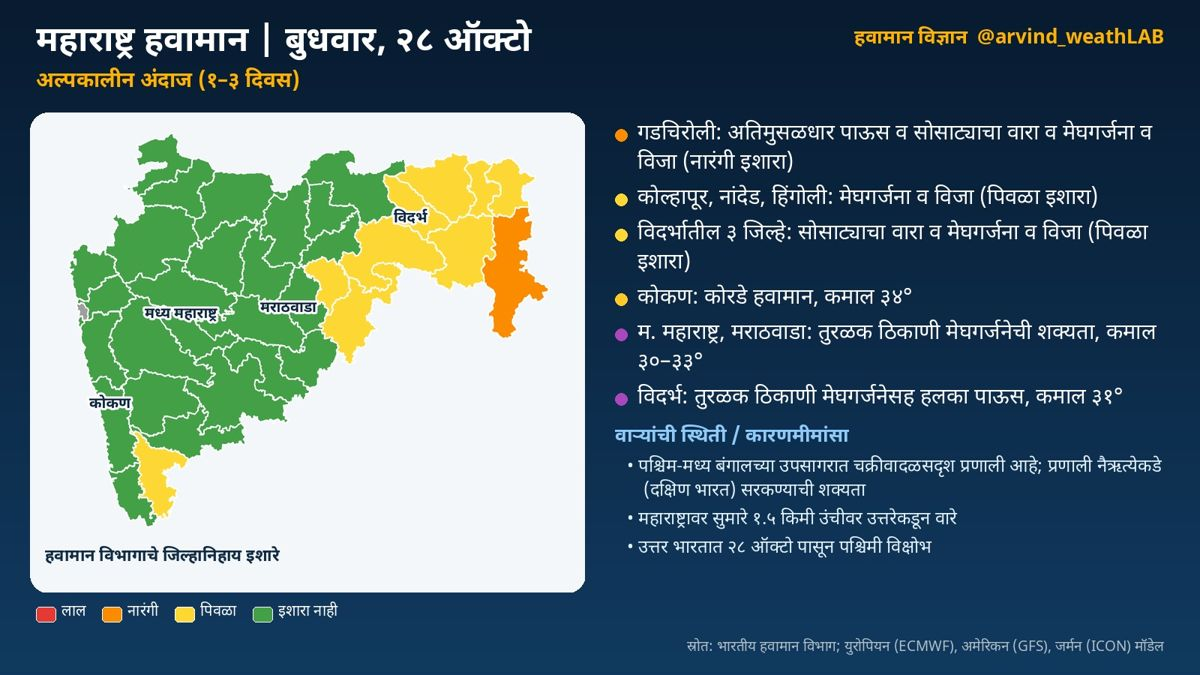
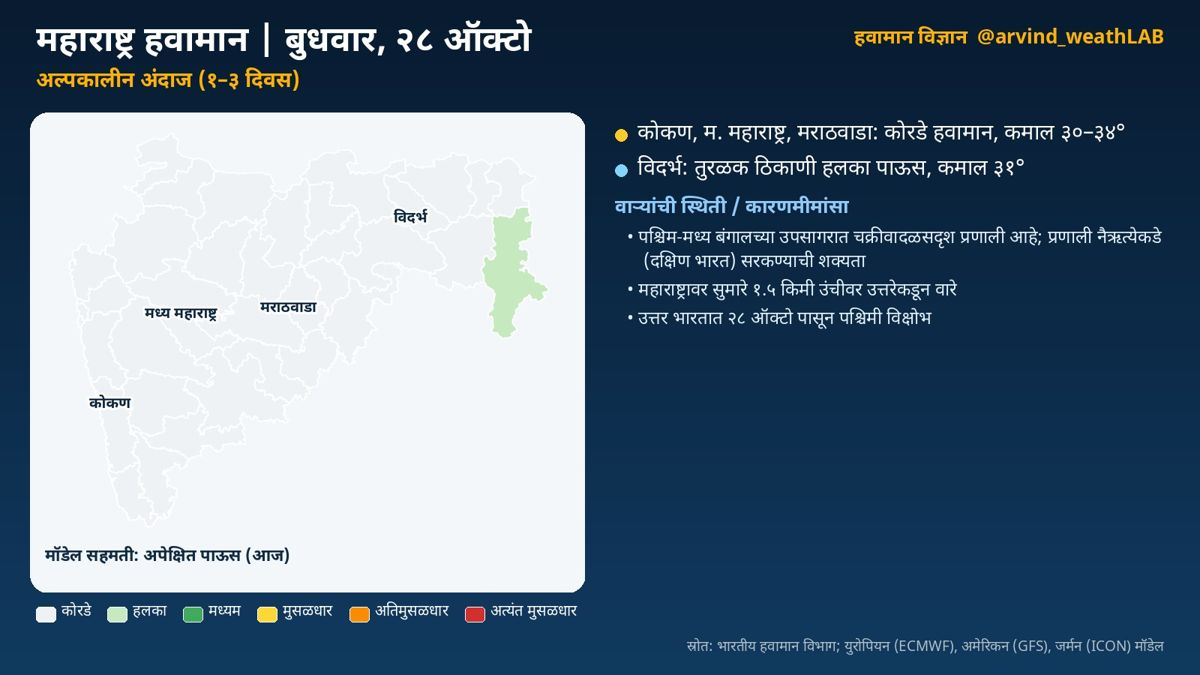
Alert 2026-10-28 (hawaman-vidnyan)

diff --git a/docs/alerts/2026-10-28-hawaman/index.html b/docs/alerts/2026-10-28-hawaman/index.html
@@ -12,11 +12,11 @@
     })();
   </script>
   <title data-mr="महाराष्ट्र हवामान | बुधवार, २८ ऑक्टो — हवामान इशारा">महाराष्ट्र हवामान | बुधवार, २८ ऑक्टो — Weather alert</title>
-  <meta name="description" content="Orange alert: महाराष्ट्र हवामान | बुधवार, २८ ऑक्टो (28 October 2026)">
+  <meta name="description" content="Information analysis: महाराष्ट्र हवामान | बुधवार, २८ ऑक्टो (28 October 2026)">
   <link rel="preconnect" href="https://fonts.googleapis.com">
   <link rel="preconnect" href="https://fonts.gstatic.com" crossorigin>
   <link href="https://fonts.googleapis.com/css2?family=Mukta:wght@400;500;600;700&family=Noto+Serif+Devanagari:wght@600;700&display=swap" rel="stylesheet">
-  <link rel="stylesheet" href="../../static/css/style.css?v=7f417a43">
+  <link rel="stylesheet" href="../../static/css/style.css?v=53f47638">
 </head>
 <body>
   <header class="site-header">
@@ -45,12 +45,12 @@
   <main class="wrap main">
 <article class="article">
   <p class="muted"><a href="../../alerts/index.html"><span class="l-en">← All alerts</span><span class="l-mr" lang="mr">← सर्व इशारे</span></a></p>
-  <div class="alert-banner level-orange">
-    <span class="badge badge-orange"><span class="l-en">Orange alert · Be prepared</span><span class="l-mr" lang="mr">नारंगी इशारा · तयार राहा</span></span>
+  <div class="alert-banner level-info">
+    <span class="badge badge-info"><span class="l-en">Information · analysis</span><span class="l-mr" lang="mr">माहितीपर विश्लेषण</span></span>
     <h1>महाराष्ट्र हवामान | बुधवार, २८ ऑक्टो</h1>
     <dl class="alert-facts">
       <div><dt><span class="l-en">Date</span><span class="l-mr" lang="mr">दिनांक</span></dt><dd><time datetime="2026-10-28"><span class="l-en">Wednesday, 28 October 2026</span><span class="l-mr" lang="mr">बुधवार, २८ ऑक्टोबर २०२६</span></time></dd></div>
-<div><dt><span class="l-en">Valid</span><span class="l-mr" lang="mr">वैधता</span></dt><dd><span class="l-en">28 October 2026 — Short-range analysis (1–3 days)</span><span class="l-mr" lang="mr">२८ ऑक्टोबर २०२६ — अल्पकालीन विश्लेषण (१–३ दिवस)</span></dd></div><div><dt><span class="l-en">Districts / regions</span><span class="l-mr" lang="mr">जिल्हे/भाग</span></dt><dd><span class="l-en">Kolhapur</span><span class="l-mr" lang="mr">कोल्हापूर</span>, <span class="l-en">Nanded</span><span class="l-mr" lang="mr">नांदेड</span>, <span class="l-en">Yavatmal</span><span class="l-mr" lang="mr">यवतमाळ</span>, <span class="l-en">Gondia</span><span class="l-mr" lang="mr">गोंदिया</span>, <span class="l-en">Nagpur</span><span class="l-mr" lang="mr">नागपूर</span>, <span class="l-en">Hingoli</span><span class="l-mr" lang="mr">हिंगोली</span>, <span class="l-en">Bhandara</span><span class="l-mr" lang="mr">भंडारा</span>, <span class="l-en">Chandrapur</span><span class="l-mr" lang="mr">चंद्रपूर</span>, <span class="l-en">Wardha</span><span class="l-mr" lang="mr">वर्धा</span>, <span class="l-en">Gadchiroli</span><span class="l-mr" lang="mr">गडचिरोली</span></dd></div><div><dt><span class="l-en">Hazards</span><span class="l-mr" lang="mr">धोके</span></dt><dd><span class="l-en">Heavy rain</span><span class="l-mr" lang="mr">मुसळधार पाऊस</span>, <span class="l-en">Thunderstorm &amp; lightning</span><span class="l-mr" lang="mr">मेघगर्जना व विजा</span>, <span class="l-en">Strong surface winds</span><span class="l-mr" lang="mr">सोसाट्याचा वारा</span>, <span class="l-en">Very heavy rain</span><span class="l-mr" lang="mr">अतिमुसळधार पाऊस</span></dd></div>    </dl>
+<div><dt><span class="l-en">Valid</span><span class="l-mr" lang="mr">वैधता</span></dt><dd><span class="l-en">28 October 2026 — Short-range analysis (1–3 days)</span><span class="l-mr" lang="mr">२८ ऑक्टोबर २०२६ — अल्पकालीन विश्लेषण (१–३ दिवस)</span></dd></div><div><dt><span class="l-en">Districts / regions</span><span class="l-mr" lang="mr">जिल्हे/भाग</span></dt><dd><span class="l-en">Konkan</span><span class="l-mr" lang="mr">कोकण</span>, <span class="l-en">Madhya Maharashtra</span><span class="l-mr" lang="mr">मध्य महाराष्ट्र</span>, <span class="l-en">Marathwada</span><span class="l-mr" lang="mr">मराठवाडा</span>, <span class="l-en">Vidarbha</span><span class="l-mr" lang="mr">विदर्भ</span></dd></div>    </dl>
   </div>
   <section class="reel">
     <h2><span class="l-en">Today&#39;s visual analysis</span><span class="l-mr" lang="mr">आजचे दृश्य विश्लेषण</span> <span class="muted"><span class="l-en">(reel slides)</span><span class="l-mr" lang="mr">(रील स्लाइड्स)</span></span></h2>
@@ -100,9 +100,10 @@
     </div>
 </details>  </section>
   <p class="lang-note l-en">This page is written in Marathi.</p><div class="prose" lang="mr"><p><strong>अल्पकालीन विश्लेषण (१–३ दिवस)</strong> · वैयक्तिक विश्लेषणावर आधारित</p>
-<p>🟠 गडचिरोली: अतिमुसळधार पाऊस व सोसाट्याचा वारा व मेघगर्जना व विजा<br />
-🟡 कोल्हापूर, नांदेड, हिंगोली: मेघगर्जना व विजा<br />
-🟡 विदर्भातील ३ जिल्हे: सोसाट्याचा वारा व मेघगर्जना व विजा<br />
+<p>☀ कोकण: कोरडे हवामान<br />
+☀ म. महाराष्ट्र: कोरडे हवामान<br />
+☀ मराठवाडा: कोरडे हवामान<br />
+🌦 विदर्भ: तुरळक ठिकाणी हलका पाऊस<br />
 🌀 पश्चिम-मध्य बंगालच्या उपसागरात चक्रीवादळसदृश प्रणाली आहे</p>
 <p><img src="../../static/images/alerts/2026-10-28/1_card.jpg" alt="अल्पकालीन विश्लेषण (१–३ दिवस)" /></p>
 <h3>हवामानामागचे कारण</h3>
@@ -112,23 +113,16 @@
 • पूर्व-मध्य अरबी समुद्रात कमी दाबाचे क्षेत्र आहे<br />
 • महाराष्ट्रावर सुमारे १.५ किमी उंचीवर उत्तरेकडून वारे</p>
 <p>• उत्तर भारतात २८ ऑक्टो पासून पश्चिमी विक्षोभ; तो पुढे सरकल्यानंतर उत्तरेकडील थंड वाऱ्यांमुळे राज्यात किमान तापमानात घट होऊ शकते</p>
-<p>🏙 आज शहरांचे कमाल/किमान तापमान (हवामान विभाग):<br />
-मुंबई ३५/२५, रत्नागिरी ३५/२४, पुणे ३४/१५, नाशिक ३४/१८, कोल्हापूर ३३/२१, छ. ३४/२०, नागपूर ३०/१९</p>
-<p>📌 निरीक्षणे:<br />
-🌡 काल सर्वाधिक: रत्नागिरी ३७.२°<br />
-❄ नीचांकी: नाशिक १४.३°<br />
-🛰 उपग्रह: मराठवाडा, विदर्भ भागावर उंच गडगडाटी ढग (कोकण १%, मध्य महाराष्ट्र १०%, मराठवाडा ४७%, विदर्भ ८०% ढगाच्छादन)</p>
 <p>ℹ स्रोत: भारतीय हवामान विभाग; युरोपियन (ECMWF), अमेरिकन (GFS), जर्मन (ICON) मॉडेल<br />
 ⚠ हे मॉडेल-आधारित विश्लेषण आहे. अधिकृत इशाऱ्यांसाठी भारतीय हवामान विभाग (IMD) व स्थानिक प्रशासनाच्या सूचना पाहा.</p>
 <p><img src="../../static/images/alerts/2026-10-28/2_circulation_chart.jpg" alt="वाऱ्यांची स्थिती व दाब प्रणाली" /></p>
-<p><img src="../../static/images/alerts/2026-10-28/3_satellite_insat.jpg" alt="वाऱ्यांची स्थिती व दाब प्रणाली" /></p>
 <h2>सविस्तर हवामान विश्लेषण</h2>
 <h3>अल्पकालीन विश्लेषण (१–३ दिवस)</h3>
-<p>नमस्कार! आज बुधवार, २८ ऑक्टोबर. पाहूया महाराष्ट्राचे हवामान विश्लेषण. भारतीय हवामान विभागाने गडचिरोली जिल्ह्यांसाठी अतिमुसळधार पाऊस व सोसाट्याचा वारा व मेघगर्जना व विजा संदर्भात नारंगी इशारा दिला आहे. भारतीय हवामान विभागाने कोल्हापूर, नांदेड, हिंगोली जिल्ह्यांसाठी मेघगर्जना व विजा संदर्भात पिवळा इशारा दिला आहे. भारतीय हवामान विभागाने यवतमाळ, नागपूर, वर्धा जिल्ह्यांसाठी सोसाट्याचा वारा व मेघगर्जना व विजा संदर्भात पिवळा इशारा दिला आहे. कोकण: कोरडे हवामान. कमाल तापमान सुमारे ३४ आणि किमान १९ अंश सेल्सिअस. मध्य महाराष्ट्र: तुरळक ठिकाणी मेघगर्जनेची शक्यता. कमाल तापमान सुमारे ३३ आणि किमान १८ अंश सेल्सिअस. मराठवाडा: तुरळक ठिकाणी मेघगर्जनेची शक्यता. कमाल तापमान सुमारे ३० आणि किमान २० अंश सेल्सिअस. विदर्भ: तुरळक ठिकाणी मेघगर्जनेसह हलका पाऊस. कमाल तापमान सुमारे ३१ आणि किमान २२ अंश सेल्सिअस. काल राज्यातील सर्वाधिक तापमान रत्नागिरी येथे ३७.२ अंश (सरासरीपेक्षा ३.८° जास्त) नोंदले गेले. आता पाहूया हवामानामागचे कारण, म्हणजेच वाऱ्यांची स्थिती. पश्चिम-मध्य बंगालच्या उपसागरात चक्रीवादळसदृश प्रणाली आहे; प्रणाली नैऋत्येकडे (दक्षिण भारत) सरकण्याची शक्यता. या प्रणालीमुळे राज्यात ढगाळ हवामान व पावसाची शक्यता वाढू शकते. महाराष्ट्रावर २९ ऑक्टो दरम्यान कमी दाबाचे क्षेत्र तयार होण्याचे संकेत; प्रणाली उत्तरेकडे (मध्य भारत) सरकण्याची शक्यता. पूर्व-मध्य अरबी समुद्रात कमी दाबाचे क्षेत्र आहे. महाराष्ट्रावर सुमारे १.५ किमी उंचीवर उत्तरेकडून वारे. उत्तर भारतात २८ ऑक्टो पासून पश्चिमी विक्षोभ; तो पुढे सरकल्यानंतर उत्तरेकडील थंड वाऱ्यांमुळे राज्यात किमान तापमानात घट होऊ शकते.</p>
+<p>नमस्कार! आज बुधवार, २८ ऑक्टोबर. पाहूया महाराष्ट्राचे हवामान विश्लेषण. कोकण: कोरडे हवामान. कमाल तापमान सुमारे ३४ आणि किमान १९ अंश सेल्सिअस. मध्य महाराष्ट्र: कोरडे हवामान. कमाल तापमान सुमारे ३३ आणि किमान १८ अंश सेल्सिअस. मराठवाडा: कोरडे हवामान. कमाल तापमान सुमारे ३० आणि किमान २० अंश सेल्सिअस. विदर्भ: तुरळक ठिकाणी हलका पाऊस. कमाल तापमान सुमारे ३१ आणि किमान २२ अंश सेल्सिअस. आता पाहूया हवामानामागचे कारण, म्हणजेच वाऱ्यांची स्थिती. पश्चिम-मध्य बंगालच्या उपसागरात चक्रीवादळसदृश प्रणाली आहे; प्रणाली नैऋत्येकडे (दक्षिण भारत) सरकण्याची शक्यता. या प्रणालीमुळे राज्यात ढगाळ हवामान व पावसाची शक्यता वाढू शकते. महाराष्ट्रावर २९ ऑक्टो दरम्यान कमी दाबाचे क्षेत्र तयार होण्याचे संकेत; प्रणाली उत्तरेकडे (मध्य भारत) सरकण्याची शक्यता. पूर्व-मध्य अरबी समुद्रात कमी दाबाचे क्षेत्र आहे. महाराष्ट्रावर सुमारे १.५ किमी उंचीवर उत्तरेकडून वारे. उत्तर भारतात २८ ऑक्टो पासून पश्चिमी विक्षोभ; तो पुढे सरकल्यानंतर उत्तरेकडील थंड वाऱ्यांमुळे राज्यात किमान तापमानात घट होऊ शकते.</p>
 <h3>मध्यम कालावधी विश्लेषण (४–१० दिवस)</h3>
 <p>आता पुढील आठवड्याचा, म्हणजे ३१ ऑक्टो – ६ नोव्हें या काळाचे विश्लेषण. युरोपियन हवामान केंद्राच्या ५१ वेगवेगळ्या संभाव्य मॉडेल-परिणामांवर आधारित. कोकण: पावसाची शक्यता अधिक (३ नोव्हें जास्त). मध्य महाराष्ट्र: पावसाची शक्यता खूप अधिक (३ नोव्हें जास्त). मराठवाडा: पावसाची शक्यता खूप अधिक (३ नोव्हें जास्त). विदर्भ: पावसाची शक्यता अधिक (२ नोव्हें जास्त).  तापमानात विशेष बदल नाही. या काळातील वाऱ्यांची स्थिती: नैऋत्य बंगालच्या उपसागरात १ नोव्हें दरम्यान कमी दाबाचे क्षेत्र तयार होण्याचे संकेत; प्रणाली वायव्येकडे (महाराष्ट्र) सरकण्याची शक्यता. या प्रणालीमुळे राज्यात ढगाळ हवामान व पावसाची शक्यता वाढू शकते. ईशान्य अरबी समुद्रात १ नोव्हें दरम्यान कमी दाबाचे क्षेत्र तयार होण्याचे संकेत. ईशान्य भारतावर २ नोव्हें दरम्यान कमी दाबाचे क्षेत्र तयार होण्याचे संकेत. महाराष्ट्रावर सुमारे १.५ किमी उंचीवर पूर्वेकडून वारे.</p>
 <h3>विस्तारित विश्लेषण (२–४ आठवडे)</h3>
-<p>आता पुढील तीन आठवड्यांचा विस्तारित विश्लेषण. आठवडा १, २–८ नोव्हें: राज्यभर पाऊस सरासरीपेक्षा जास्त. तापमान सरासरीपेक्षा १.६ अंश जास्त राहण्याची शक्यता. आठवडा २, ९–१५ नोव्हें: राज्यभर पाऊस सरासरीपेक्षा कमी. तापमान सरासरीपेक्षा १.० अंश जास्त राहण्याची शक्यता. आठवडा ३, १६–२२ नोव्हें: पाऊस सरासरीइतका. तापमान सरासरीपेक्षा १.१ अंश जास्त राहण्याची शक्यता. वाऱ्यांचा प्रवाह: ४–११ नोव्हें: महाराष्ट्रावर पूर्वेकडून वारे कायम (५१ पैकी ५१ सदस्य); पूर्व/ईशान्येकडील वारे सहसा कोरडे हवामान आणतात. भारतीय हवामान विभाग व आयआयटीएम पुणे यांचे विस्तारित कालावधी नकाशेही हेच संकेत तपासण्यासाठी पाहा.</p>
+<p>आता पुढील तीन आठवड्यांचा विस्तारित विश्लेषण. आठवडा १, २–८ नोव्हें: राज्यभर पाऊस सरासरीपेक्षा जास्त. तापमान सरासरीपेक्षा १.६ अंश जास्त राहण्याची शक्यता. आठवडा २, ९–१५ नोव्हें: राज्यभर पाऊस सरासरीपेक्षा कमी. तापमान सरासरीपेक्षा १.० अंश जास्त राहण्याची शक्यता. आठवडा ३, १६–२२ नोव्हें: पाऊस सरासरीइतका. तापमान सरासरीपेक्षा १.१ अंश जास्त राहण्याची शक्यता. वाऱ्यांचा प्रवाह: ४–११ नोव्हें: महाराष्ट्रावर पूर्वेकडून वारे कायम (५१ पैकी ५१ सदस्य); पूर्व/ईशान्येकडील वारे सहसा कोरडे हवामान आणतात.</p>
 <h3>हंगामी विश्लेषण (१–३ महिने)</h3>
 <p>आता नोव्हेंबर ते जानेवारी या हंगामाचा दीर्घकालीन विश्लेषण. नोव्हेंबर: तापमान सरासरीपेक्षा बरेच जास्त, सुमारे +२.५ अंश; पाऊस सरासरीइतका. डिसेंबर: तापमान सरासरीपेक्षा बरेच जास्त, सुमारे +२.३ अंश; पाऊस सरासरीइतका. जानेवारी: तापमान सरासरीपेक्षा बरेच जास्त, सुमारे +२.१ अंश; पाऊस सरासरीइतका. प्रशांत महासागरात तीव्र एल निनो (नीनो-३.४: +३.४°से); तो अजून बळकट होत आहे. एल निनोमुळे येणारा हिवाळा सहसा उबदार; थंडीच्या लाटा कमी.</p>
 <p>हे मॉडेल-आधारित विश्लेषण आहे. अधिकृत इशाऱ्यांसाठी भारतीय हवामान विभाग (IMD) व स्थानिक प्रशासनाच्या सूचना पाहा.</p>

diff --git a/docs/index.html b/docs/index.html
@@ -16,7 +16,7 @@
   <link rel="preconnect" href="https://fonts.googleapis.com">
   <link rel="preconnect" href="https://fonts.gstatic.com" crossorigin>
   <link href="https://fonts.googleapis.com/css2?family=Mukta:wght@400;500;600;700&family=Noto+Serif+Devanagari:wght@600;700&display=swap" rel="stylesheet">
-  <link rel="stylesheet" href="./static/css/style.css?v=7f417a43">
+  <link rel="stylesheet" href="./static/css/style.css?v=53f47638">
 </head>
 <body>
   <header class="site-header">
@@ -45,7 +45,7 @@
   <main class="wrap main">
 <section class="hero">
   <div class="hero-photo">
-    <img src="./static/images/profile.jpg?v=7f417a43" alt="Arvind Pagire" width="200" height="200">
+    <img src="./static/images/profile.jpg?v=53f47638" alt="Arvind Pagire" width="200" height="200">
   </div>
   <div class="hero-text">
     <p class="eyebrow"><span class="l-en">Meteorologist · AI-based weather prediction · Hybrid modelling</span><span class="l-mr" lang="mr">हवामानशास्त्रज्ञ · AI-आधारित हवामान अंदाज · हायब्रिड मॉडेलिंग</span></p>
@@ -71,13 +71,13 @@
     <h2><span class="l-en">Latest weather alert</span><span class="l-mr" lang="mr">ताजा हवामान इशारा</span></h2>
     <a href="./alerts/index.html"><span class="l-en">All alerts →</span><span class="l-mr" lang="mr">सर्व इशारे →</span></a>
   </div>
-    <article class="alert-card level-orange">
+    <article class="alert-card level-info">
   <div class="alert-card-top">
-    <span class="badge badge-orange"><span class="l-en">Orange alert · Be prepared</span><span class="l-mr" lang="mr">नारंगी इशारा · तयार राहा</span></span>
+    <span class="badge badge-info"><span class="l-en">Information · analysis</span><span class="l-mr" lang="mr">माहितीपर विश्लेषण</span></span>
     <time datetime="2026-10-28" class="muted"><span class="l-en">Wednesday, 28 October 2026</span><span class="l-mr" lang="mr">बुधवार, २८ ऑक्टोबर २०२६</span></time>
   </div>
   <h3><a href="./alerts/2026-10-28-hawaman/index.html">महाराष्ट्र हवामान | बुधवार, २८ ऑक्टो</a></h3>
-<p class="alert-meta"><strong><span class="l-en">Districts / regions:</span><span class="l-mr" lang="mr">जिल्हे/भाग:</span></strong> <span class="l-en">Kolhapur</span><span class="l-mr" lang="mr">कोल्हापूर</span>, <span class="l-en">Nanded</span><span class="l-mr" lang="mr">नांदेड</span>, <span class="l-en">Yavatmal</span><span class="l-mr" lang="mr">यवतमाळ</span>, <span class="l-en">Gondia</span><span class="l-mr" lang="mr">गोंदिया</span>, <span class="l-en">Nagpur</span><span class="l-mr" lang="mr">नागपूर</span>, <span class="l-en">Hingoli</span><span class="l-mr" lang="mr">हिंगोली</span>, <span class="l-en">Bhandara</span><span class="l-mr" lang="mr">भंडारा</span>, <span class="l-en">Chandrapur</span><span class="l-mr" lang="mr">चंद्रपूर</span>, <span class="l-en">Wardha</span><span class="l-mr" lang="mr">वर्धा</span>, <span class="l-en">Gadchiroli</span><span class="l-mr" lang="mr">गडचिरोली</span></p><p class="alert-meta"><strong><span class="l-en">Hazards:</span><span class="l-mr" lang="mr">धोके:</span></strong> <span class="l-en">Heavy rain</span><span class="l-mr" lang="mr">मुसळधार पाऊस</span>, <span class="l-en">Thunderstorm &amp; lightning</span><span class="l-mr" lang="mr">मेघगर्जना व विजा</span>, <span class="l-en">Strong surface winds</span><span class="l-mr" lang="mr">सोसाट्याचा वारा</span>, <span class="l-en">Very heavy rain</span><span class="l-mr" lang="mr">अतिमुसळधार पाऊस</span></p><p class="alert-meta"><strong><span class="l-en">Valid:</span><span class="l-mr" lang="mr">वैधता:</span></strong> <span class="l-en">28 October 2026 — Short-range analysis (1–3 days)</span><span class="l-mr" lang="mr">२८ ऑक्टोबर २०२६ — अल्पकालीन विश्लेषण (१–३ दिवस)</span></p></article>
+<p class="alert-meta"><strong><span class="l-en">Districts / regions:</span><span class="l-mr" lang="mr">जिल्हे/भाग:</span></strong> <span class="l-en">Konkan</span><span class="l-mr" lang="mr">कोकण</span>, <span class="l-en">Madhya Maharashtra</span><span class="l-mr" lang="mr">मध्य महाराष्ट्र</span>, <span class="l-en">Marathwada</span><span class="l-mr" lang="mr">मराठवाडा</span>, <span class="l-en">Vidarbha</span><span class="l-mr" lang="mr">विदर्भ</span></p><p class="alert-meta"><strong><span class="l-en">Valid:</span><span class="l-mr" lang="mr">वैधता:</span></strong> <span class="l-en">28 October 2026 — Short-range analysis (1–3 days)</span><span class="l-mr" lang="mr">२८ ऑक्टोबर २०२६ — अल्पकालीन विश्लेषण (१–३ दिवस)</span></p></article>
     <p class="stale-note muted" data-date="2026-10-28" hidden>
       <span class="l-en">Note: this alert is from 28 October 2026; today&#39;s alert has not been published yet.</span><span class="l-mr" lang="mr">टीप: हा इशारा २८ ऑक्टोबर २०२६ रोजीचा आहे; आजचा इशारा अद्याप प्रसिद्ध झालेला नाही.</span></p>
   <p class="follow"><a href="https://x.com/arvind_weathLAB" rel="noopener" target="_blank">𝕏 <span class="l-en">Daily Maharashtra weather updates:</span><span class="l-mr" lang="mr">दैनंदिन महाराष्ट्र हवामान अपडेट:</span> @arvind_weathLAB</a></p>

diff --git a/docs/alerts/index.html b/docs/alerts/index.html
@@ -16,7 +16,7 @@
   <link rel="preconnect" href="https://fonts.googleapis.com">
   <link rel="preconnect" href="https://fonts.gstatic.com" crossorigin>
   <link href="https://fonts.googleapis.com/css2?family=Mukta:wght@400;500;600;700&family=Noto+Serif+Devanagari:wght@600;700&display=swap" rel="stylesheet">
-  <link rel="stylesheet" href="../static/css/style.css?v=7f417a43">
+  <link rel="stylesheet" href="../static/css/style.css?v=53f47638">
 </head>
 <body>
   <header class="site-header">
@@ -58,13 +58,13 @@
 </details>
 
 <div class="stack">
-<article class="alert-card level-orange">
+<article class="alert-card level-info">
   <div class="alert-card-top">
-    <span class="badge badge-orange"><span class="l-en">Orange alert · Be prepared</span><span class="l-mr" lang="mr">नारंगी इशारा · तयार राहा</span></span>
+    <span class="badge badge-info"><span class="l-en">Information · analysis</span><span class="l-mr" lang="mr">माहितीपर विश्लेषण</span></span>
     <time datetime="2026-10-28" class="muted"><span class="l-en">Wednesday, 28 October 2026</span><span class="l-mr" lang="mr">बुधवार, २८ ऑक्टोबर २०२६</span></time>
   </div>
   <h3><a href="../alerts/2026-10-28-hawaman/index.html">महाराष्ट्र हवामान | बुधवार, २८ ऑक्टो</a></h3>
-<p class="alert-meta"><strong><span class="l-en">Districts / regions:</span><span class="l-mr" lang="mr">जिल्हे/भाग:</span></strong> <span class="l-en">Kolhapur</span><span class="l-mr" lang="mr">कोल्हापूर</span>, <span class="l-en">Nanded</span><span class="l-mr" lang="mr">नांदेड</span>, <span class="l-en">Yavatmal</span><span class="l-mr" lang="mr">यवतमाळ</span>, <span class="l-en">Gondia</span><span class="l-mr" lang="mr">गोंदिया</span>, <span class="l-en">Nagpur</span><span class="l-mr" lang="mr">नागपूर</span>, <span class="l-en">Hingoli</span><span class="l-mr" lang="mr">हिंगोली</span>, <span class="l-en">Bhandara</span><span class="l-mr" lang="mr">भंडारा</span>, <span class="l-en">Chandrapur</span><span class="l-mr" lang="mr">चंद्रपूर</span>, <span class="l-en">Wardha</span><span class="l-mr" lang="mr">वर्धा</span>, <span class="l-en">Gadchiroli</span><span class="l-mr" lang="mr">गडचिरोली</span></p><p class="alert-meta"><strong><span class="l-en">Hazards:</span><span class="l-mr" lang="mr">धोके:</span></strong> <span class="l-en">Heavy rain</span><span class="l-mr" lang="mr">मुसळधार पाऊस</span>, <span class="l-en">Thunderstorm &amp; lightning</span><span class="l-mr" lang="mr">मेघगर्जना व विजा</span>, <span class="l-en">Strong surface winds</span><span class="l-mr" lang="mr">सोसाट्याचा वारा</span>, <span class="l-en">Very heavy rain</span><span class="l-mr" lang="mr">अतिमुसळधार पाऊस</span></p><p class="alert-meta"><strong><span class="l-en">Valid:</span><span class="l-mr" lang="mr">वैधता:</span></strong> <span class="l-en">28 October 2026 — Short-range analysis (1–3 days)</span><span class="l-mr" lang="mr">२८ ऑक्टोबर २०२६ — अल्पकालीन विश्लेषण (१–३ दिवस)</span></p></article><article class="alert-card level-info">
+<p class="alert-meta"><strong><span class="l-en">Districts / regions:</span><span class="l-mr" lang="mr">जिल्हे/भाग:</span></strong> <span class="l-en">Konkan</span><span class="l-mr" lang="mr">कोकण</span>, <span class="l-en">Madhya Maharashtra</span><span class="l-mr" lang="mr">मध्य महाराष्ट्र</span>, <span class="l-en">Marathwada</span><span class="l-mr" lang="mr">मराठवाडा</span>, <span class="l-en">Vidarbha</span><span class="l-mr" lang="mr">विदर्भ</span></p><p class="alert-meta"><strong><span class="l-en">Valid:</span><span class="l-mr" lang="mr">वैधता:</span></strong> <span class="l-en">28 October 2026 — Short-range analysis (1–3 days)</span><span class="l-mr" lang="mr">२८ ऑक्टोबर २०२६ — अल्पकालीन विश्लेषण (१–३ दिवस)</span></p></article><article class="alert-card level-info">
   <div class="alert-card-top">
     <span class="badge badge-info"><span class="l-en">Information · analysis</span><span class="l-mr" lang="mr">माहितीपर विश्लेषण</span></span>
     <time datetime="2026-10-27" class="muted"><span class="l-en">Tuesday, 27 October 2026</span><span class="l-mr" lang="mr">मंगळवार, २७ ऑक्टोबर २०२६</span></time>

diff --git a/docs/alerts/2026-10-25-hawaman/index.html b/docs/alerts/2026-10-25-hawaman/index.html
@@ -16,7 +16,7 @@
   <link rel="preconnect" href="https://fonts.googleapis.com">
   <link rel="preconnect" href="https://fonts.gstatic.com" crossorigin>
   <link href="https://fonts.googleapis.com/css2?family=Mukta:wght@400;500;600;700&family=Noto+Serif+Devanagari:wght@600;700&display=swap" rel="stylesheet">
-  <link rel="stylesheet" href="../../static/css/style.css?v=7f417a43">
+  <link rel="stylesheet" href="../../static/css/style.css?v=53f47638">
 </head>
 <body>
   <header class="site-header">

diff --git a/docs/alerts/2026-10-26-hawaman/index.html b/docs/alerts/2026-10-26-hawaman/index.html
@@ -16,7 +16,7 @@
   <link rel="preconnect" href="https://fonts.googleapis.com">
   <link rel="preconnect" href="https://fonts.gstatic.com" crossorigin>
   <link href="https://fonts.googleapis.com/css2?family=Mukta:wght@400;500;600;700&family=Noto+Serif+Devanagari:wght@600;700&display=swap" rel="stylesheet">
-  <link rel="stylesheet" href="../../static/css/style.css?v=7f417a43">
+  <link rel="stylesheet" href="../../static/css/style.css?v=53f47638">
 </head>
 <body>
   <header class="site-header">

diff --git a/docs/alerts/2026-10-27-hawaman/index.html b/docs/alerts/2026-10-27-hawaman/index.html
@@ -16,7 +16,7 @@
   <link rel="preconnect" href="https://fonts.googleapis.com">
   <link rel="preconnect" href="https://fonts.gstatic.com" crossorigin>
   <link href="https://fonts.googleapis.com/css2?family=Mukta:wght@400;500;600;700&family=Noto+Serif+Devanagari:wght@600;700&display=swap" rel="stylesheet">
-  <link rel="stylesheet" href="../../static/css/style.css?v=7f417a43">
+  <link rel="stylesheet" href="../../static/css/style.css?v=53f47638">
 </head>
 <body>
   <header class="site-header">

diff --git a/docs/contact/thanks/index.html b/docs/contact/thanks/index.html
@@ -16,7 +16,7 @@
   <link rel="preconnect" href="https://fonts.googleapis.com">
   <link rel="preconnect" href="https://fonts.gstatic.com" crossorigin>
   <link href="https://fonts.googleapis.com/css2?family=Mukta:wght@400;500;600;700&family=Noto+Serif+Devanagari:wght@600;700&display=swap" rel="stylesheet">
-  <link rel="stylesheet" href="../../static/css/style.css?v=7f417a43">
+  <link rel="stylesheet" href="../../static/css/style.css?v=53f47638">
 </head>
 <body>
   <header class="site-header">

diff --git a/docs/about/index.html b/docs/about/index.html
@@ -16,7 +16,7 @@
   <link rel="preconnect" href="https://fonts.googleapis.com">
   <link rel="preconnect" href="https://fonts.gstatic.com" crossorigin>
   <link href="https://fonts.googleapis.com/css2?family=Mukta:wght@400;500;600;700&family=Noto+Serif+Devanagari:wght@600;700&display=swap" rel="stylesheet">
-  <link rel="stylesheet" href="../static/css/style.css?v=7f417a43">
+  <link rel="stylesheet" href="../static/css/style.css?v=53f47638">
 </head>
 <body>
   <header class="site-header">

diff --git a/docs/blog/index.html b/docs/blog/index.html
@@ -16,7 +16,7 @@
   <link rel="preconnect" href="https://fonts.googleapis.com">
   <link rel="preconnect" href="https://fonts.gstatic.com" crossorigin>
   <link href="https://fonts.googleapis.com/css2?family=Mukta:wght@400;500;600;700&family=Noto+Serif+Devanagari:wght@600;700&display=swap" rel="stylesheet">
-  <link rel="stylesheet" href="../static/css/style.css?v=7f417a43">
+  <link rel="stylesheet" href="../static/css/style.css?v=53f47638">
 </head>
 <body>
   <header class="site-header">

diff --git a/docs/contact/index.html b/docs/contact/index.html
@@ -16,7 +16,7 @@
   <link rel="preconnect" href="https://fonts.googleapis.com">
   <link rel="preconnect" href="https://fonts.gstatic.com" crossorigin>
   <link href="https://fonts.googleapis.com/css2?family=Mukta:wght@400;500;600;700&family=Noto+Serif+Devanagari:wght@600;700&display=swap" rel="stylesheet">
-  <link rel="stylesheet" href="../static/css/style.css?v=7f417a43">
+  <link rel="stylesheet" href="../static/css/style.css?v=53f47638">
 </head>
 <body>
   <header class="site-header">

diff --git a/docs/forecast/index.html b/docs/forecast/index.html
@@ -16,7 +16,7 @@
   <link rel="preconnect" href="https://fonts.googleapis.com">
   <link rel="preconnect" href="https://fonts.gstatic.com" crossorigin>
   <link href="https://fonts.googleapis.com/css2?family=Mukta:wght@400;500;600;700&family=Noto+Serif+Devanagari:wght@600;700&display=swap" rel="stylesheet">
-  <link rel="stylesheet" href="../static/css/style.css?v=7f417a43">
+  <link rel="stylesheet" href="../static/css/style.css?v=53f47638">
 </head>
 <body>
   <header class="site-header">

diff --git a/docs/publications/index.html b/docs/publications/index.html
@@ -16,7 +16,7 @@
   <link rel="preconnect" href="https://fonts.googleapis.com">
   <link rel="preconnect" href="https://fonts.gstatic.com" crossorigin>
   <link href="https://fonts.googleapis.com/css2?family=Mukta:wght@400;500;600;700&family=Noto+Serif+Devanagari:wght@600;700&display=swap" rel="stylesheet">
-  <link rel="stylesheet" href="../static/css/style.css?v=7f417a43">
+  <link rel="stylesheet" href="../static/css/style.css?v=53f47638">
 </head>
 <body>
   <header class="site-header">
